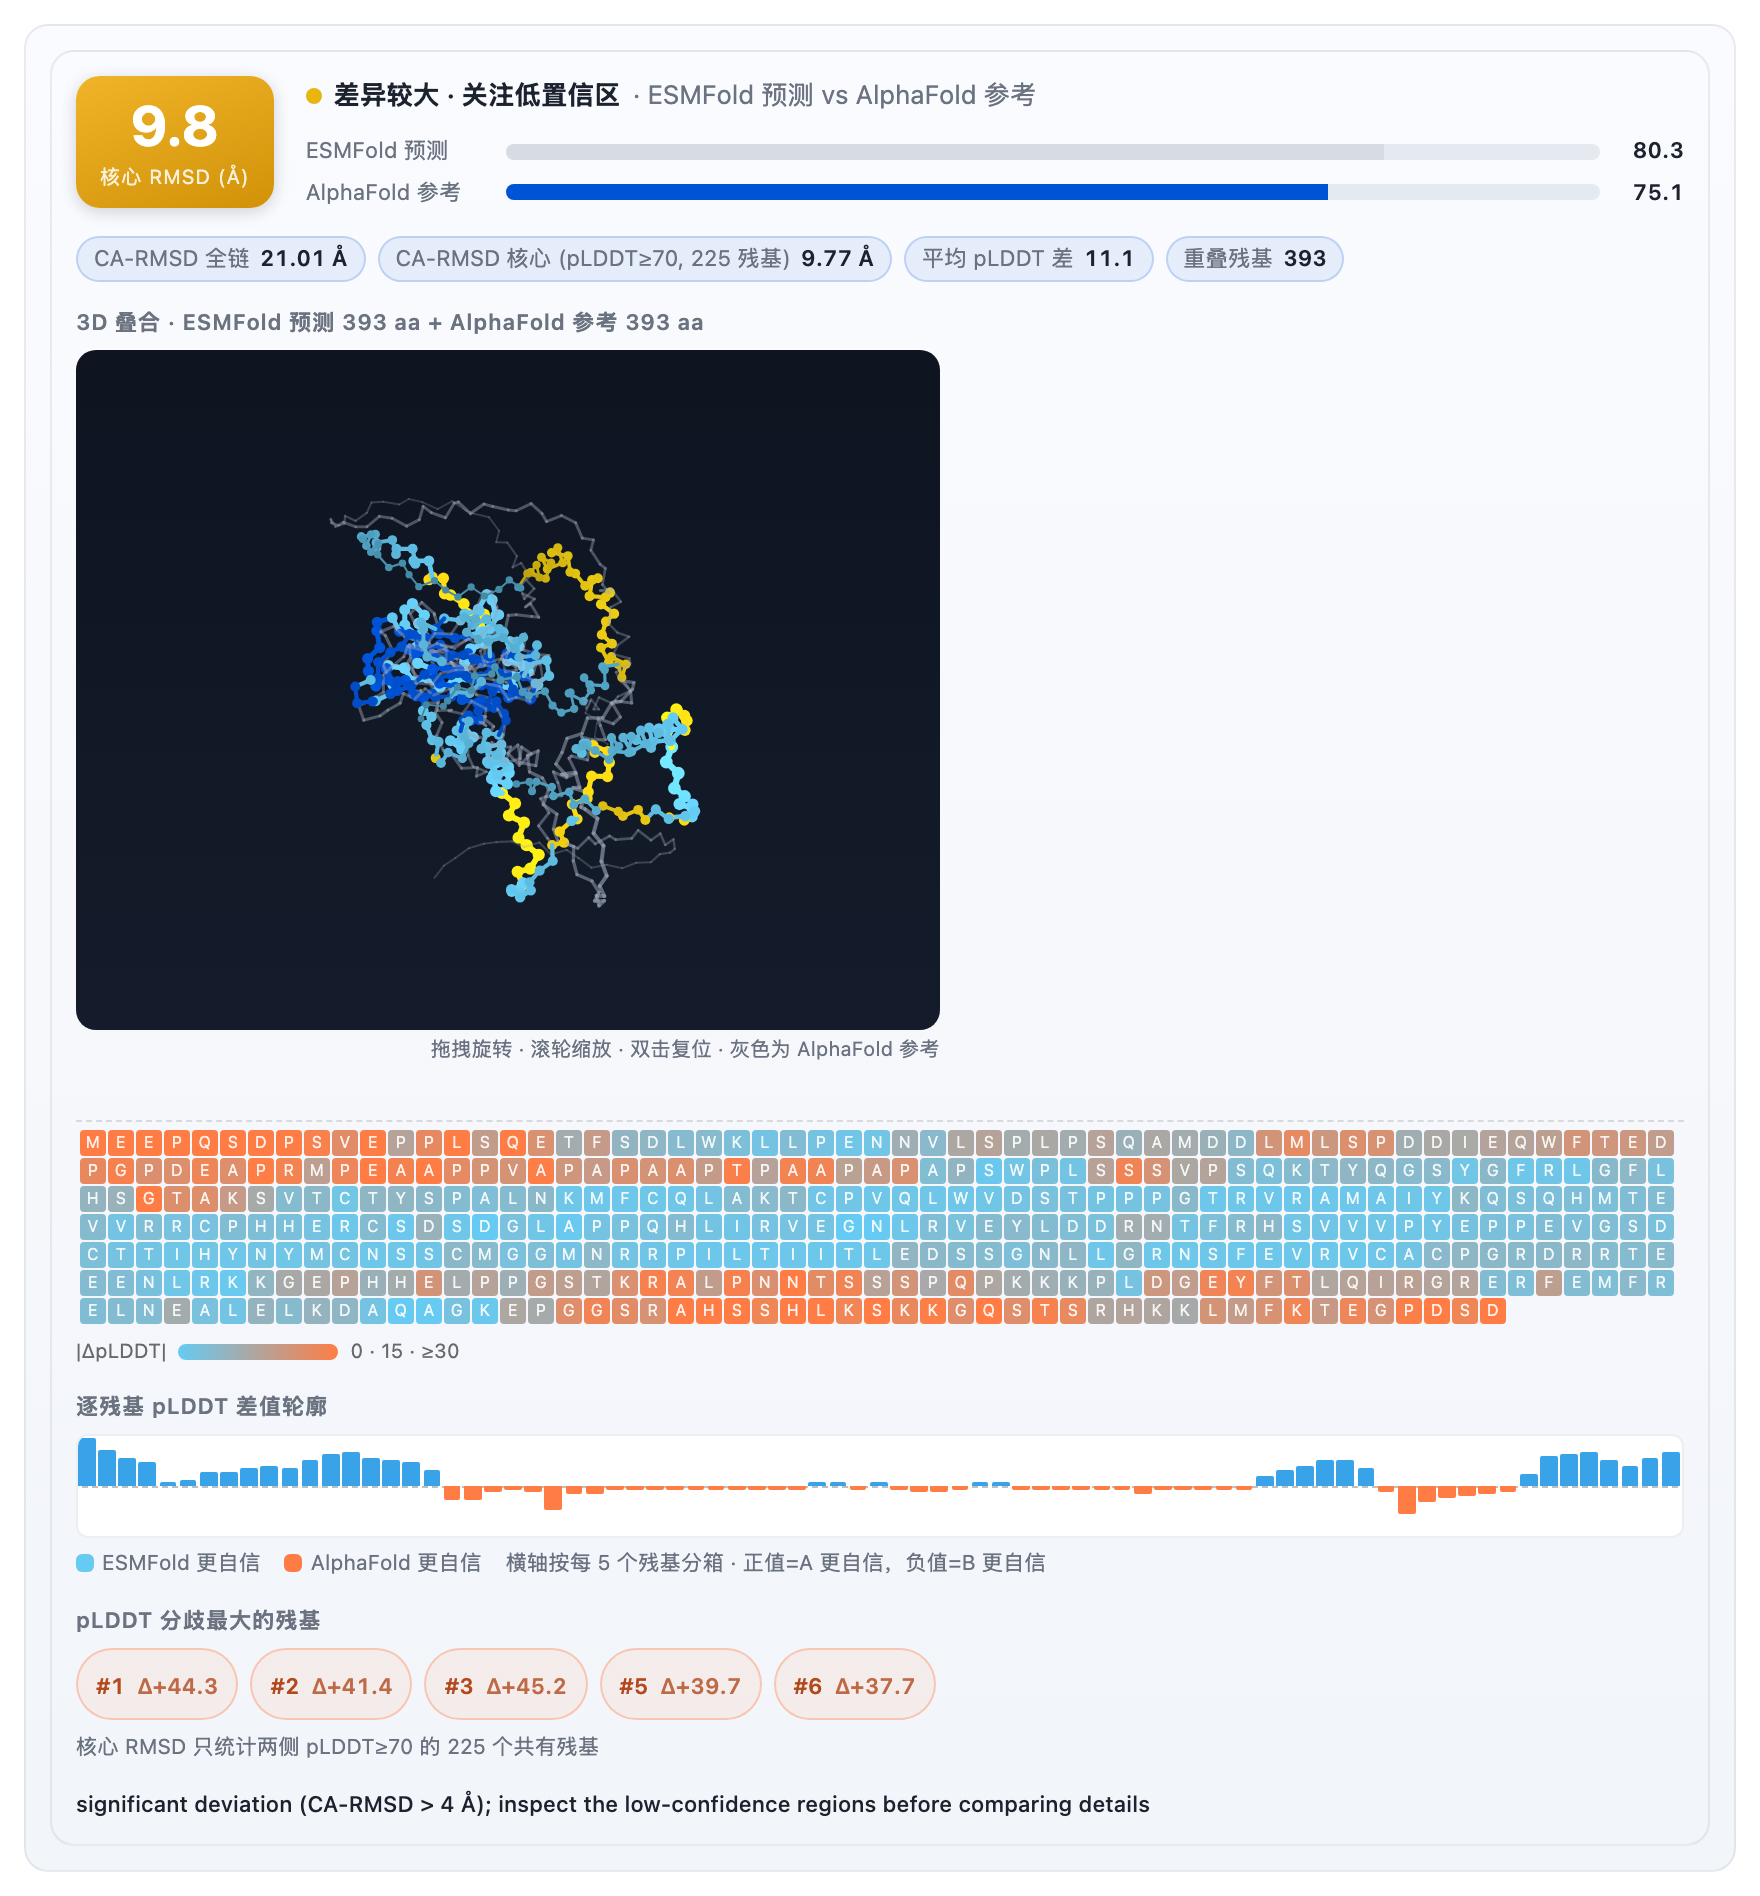
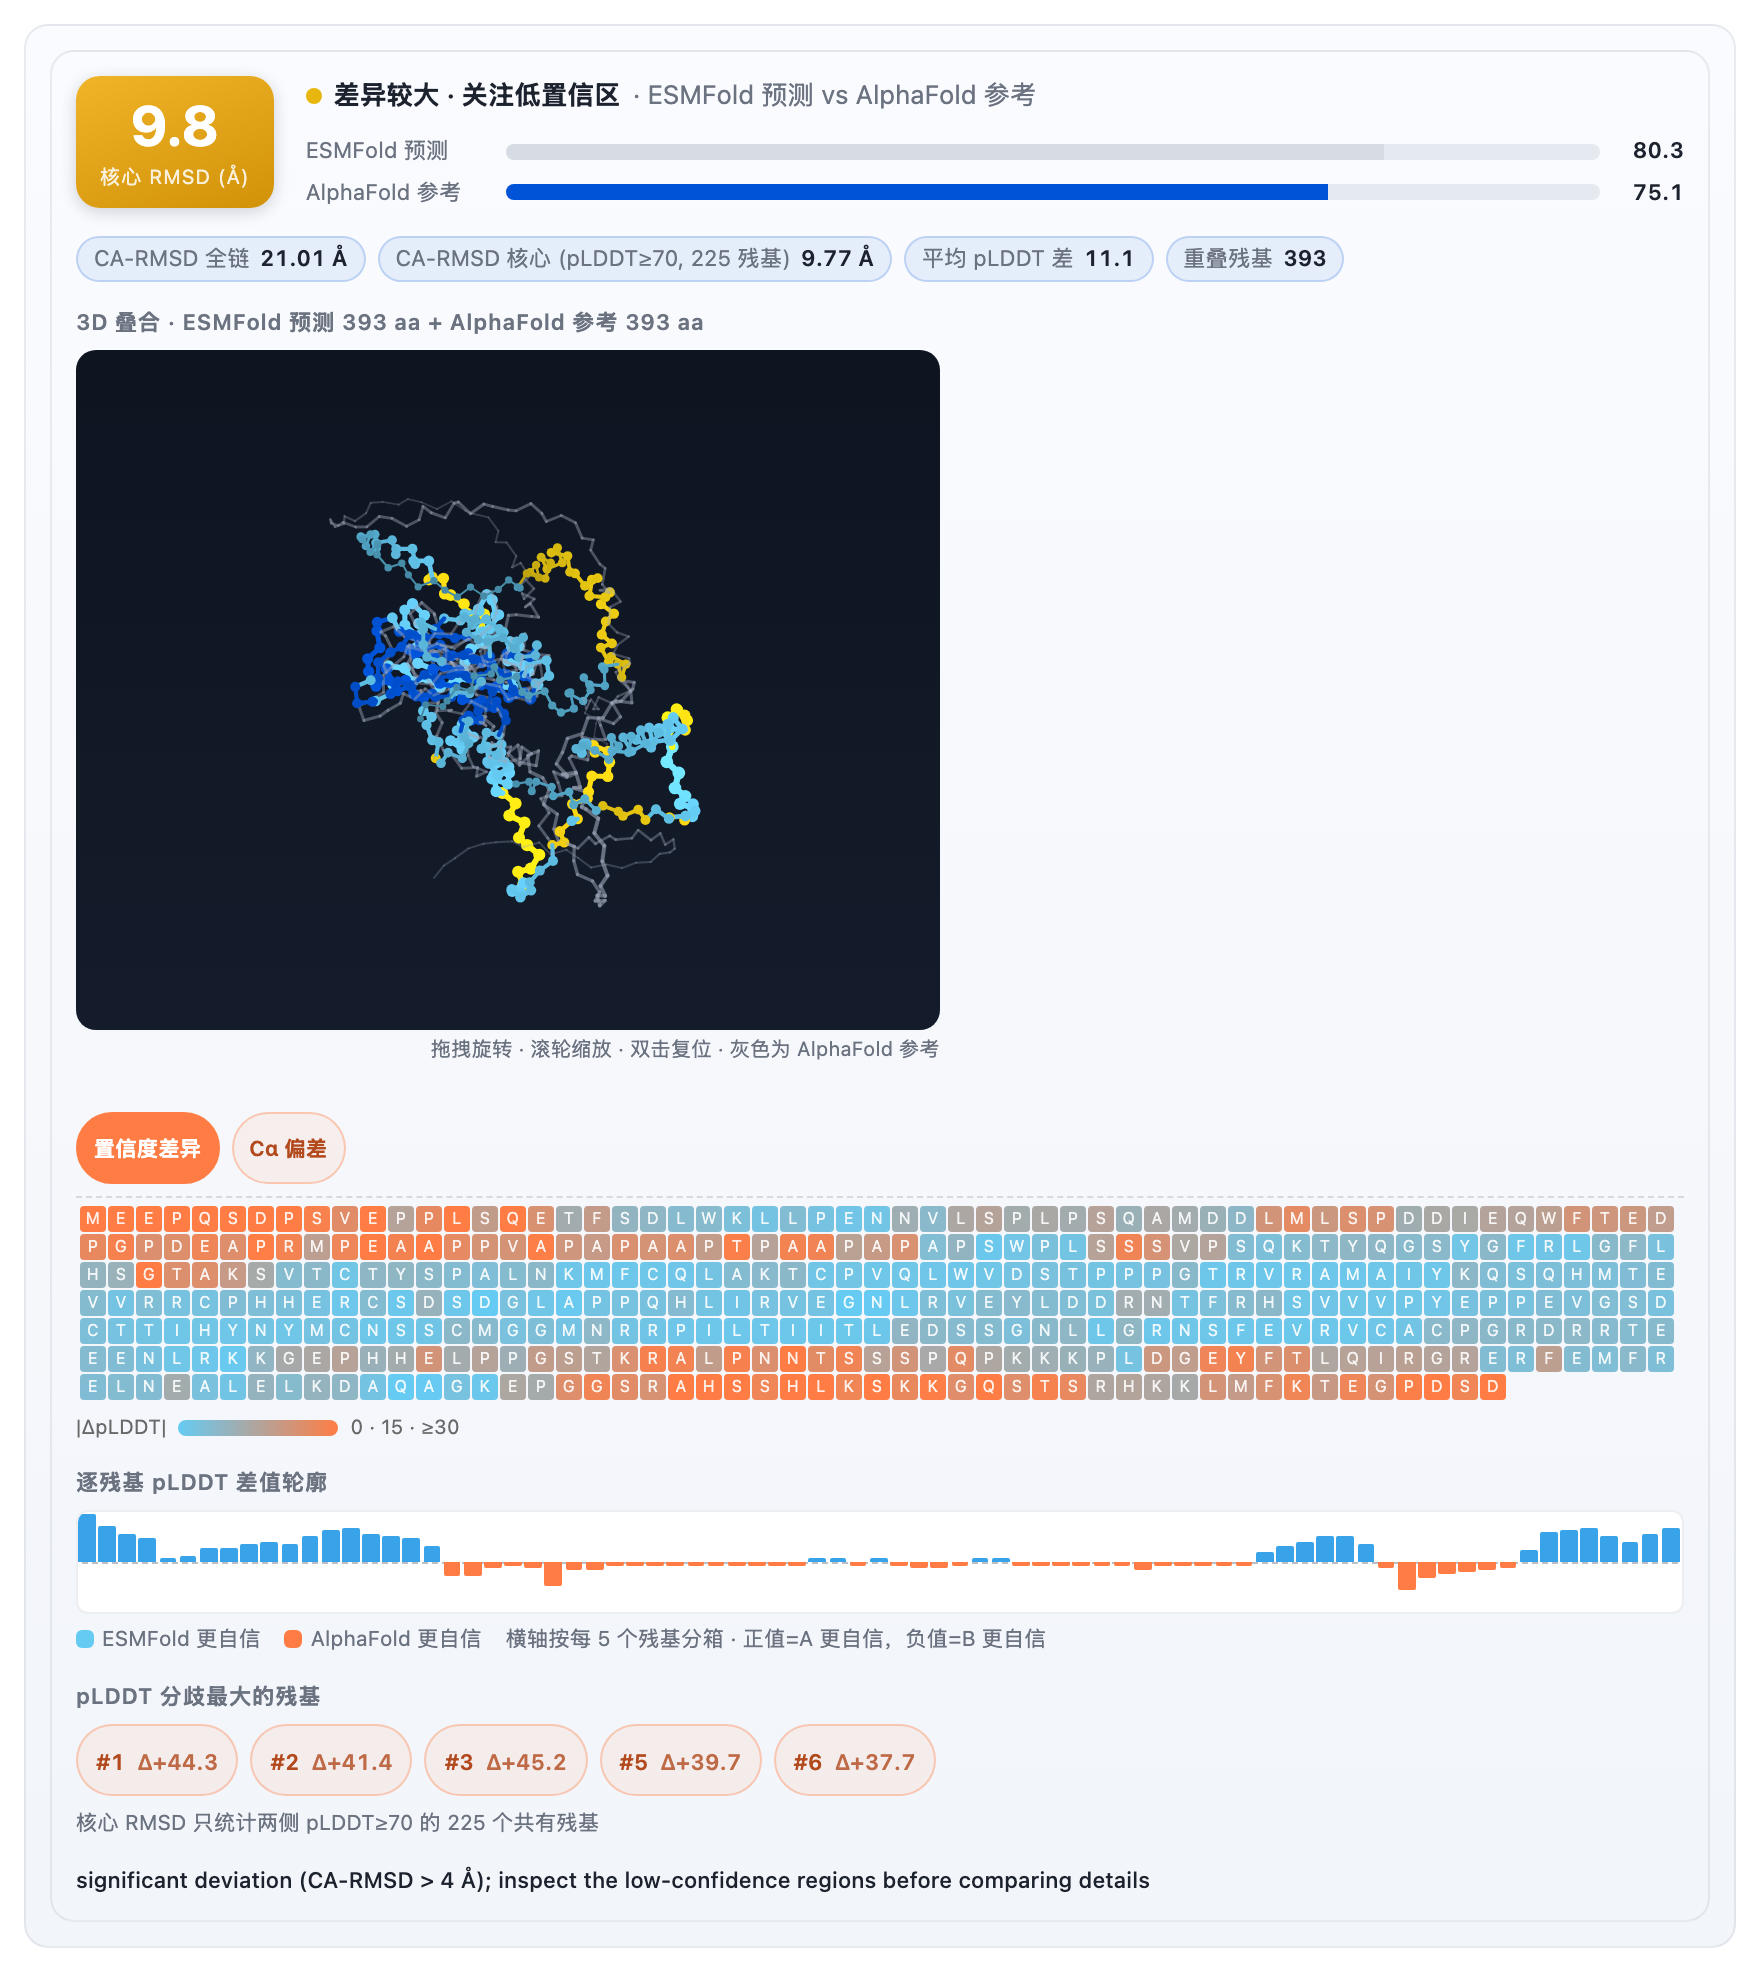
docs: cover Cα-deviation lens + sortable search card; refresh gallery

Changed region(s): [[0.0312, 0.2489, 0.9688, 0.9647], [0.0312, 0.0311, 0.7812, 0.1867], [0.9375, 0.0622, 0.9688, 0.0934]]

diff --git a/examples/packages/EXAMPLES.protein.md b/examples/packages/EXAMPLES.protein.md
@@ -23,6 +23,7 @@
 ```
 
 搜索结果以结构化表格呈现：点击任意行即可复制 accession，
+点击表头按 accession/蛋白/物种/长度排序（升→降→恢复相关度排序），
 回复「预测 <accession>」继续下一步。
 
 ## 批处理：一次预测多个蛋白
@@ -75,7 +76,7 @@ MKTAYIAKQRQISFVKSHFSRQ，EIAJKQGQVTMVIKKSMLEK，
 | 点击 3D 残基 / 面板聚焦后按 ←→ | 选中该残基并保持读出（再点一次取消）；方向键逐残基扫描，与曲线高亮联动 |
 | 「导出 PNG」 | 3D 图保存为图片（多链复合物自动把链图例合成进图）；曲线导出会**把序列条合成到图下方**（图+热区一体，论文/组会可用） |
 | 点击「分歧最大残基」chip | 在 3D 叠加中定位该残基，读出行显示双侧 pLDDT 与 Δ |
-| 对比卡 3D 下方的分歧序列条 | 每残基按 \|ΔpLDDT\| 蓝→橙红着色——无序区/分歧热区一眼可见；悬停显示双侧数值，点击定位 |
+| 对比卡 3D 下方的分歧序列条 | 每残基按 \|ΔpLDDT\| 蓝→橙红着色——无序区/分歧热区一眼可见；悬停显示双侧数值与 Cα 偏差，点击定位。顶部芯片可切换 **置信度差异 / Cα 偏差** 两种镜头：后者按叠合后 Cα 距离着色（teal ≤0.5 Å → 红 ≥5 Å），折叠本身的变化（突变体位移、域挪动）直接读成热点 |
 | 批处理卡片「导出 CSV」 | 整表下载为 CSV（含失败行及原因，可直接进表格软件） |
 | 批处理卡片点击某行 | 就地展开该蛋白的 3D + 曲线 |
 
